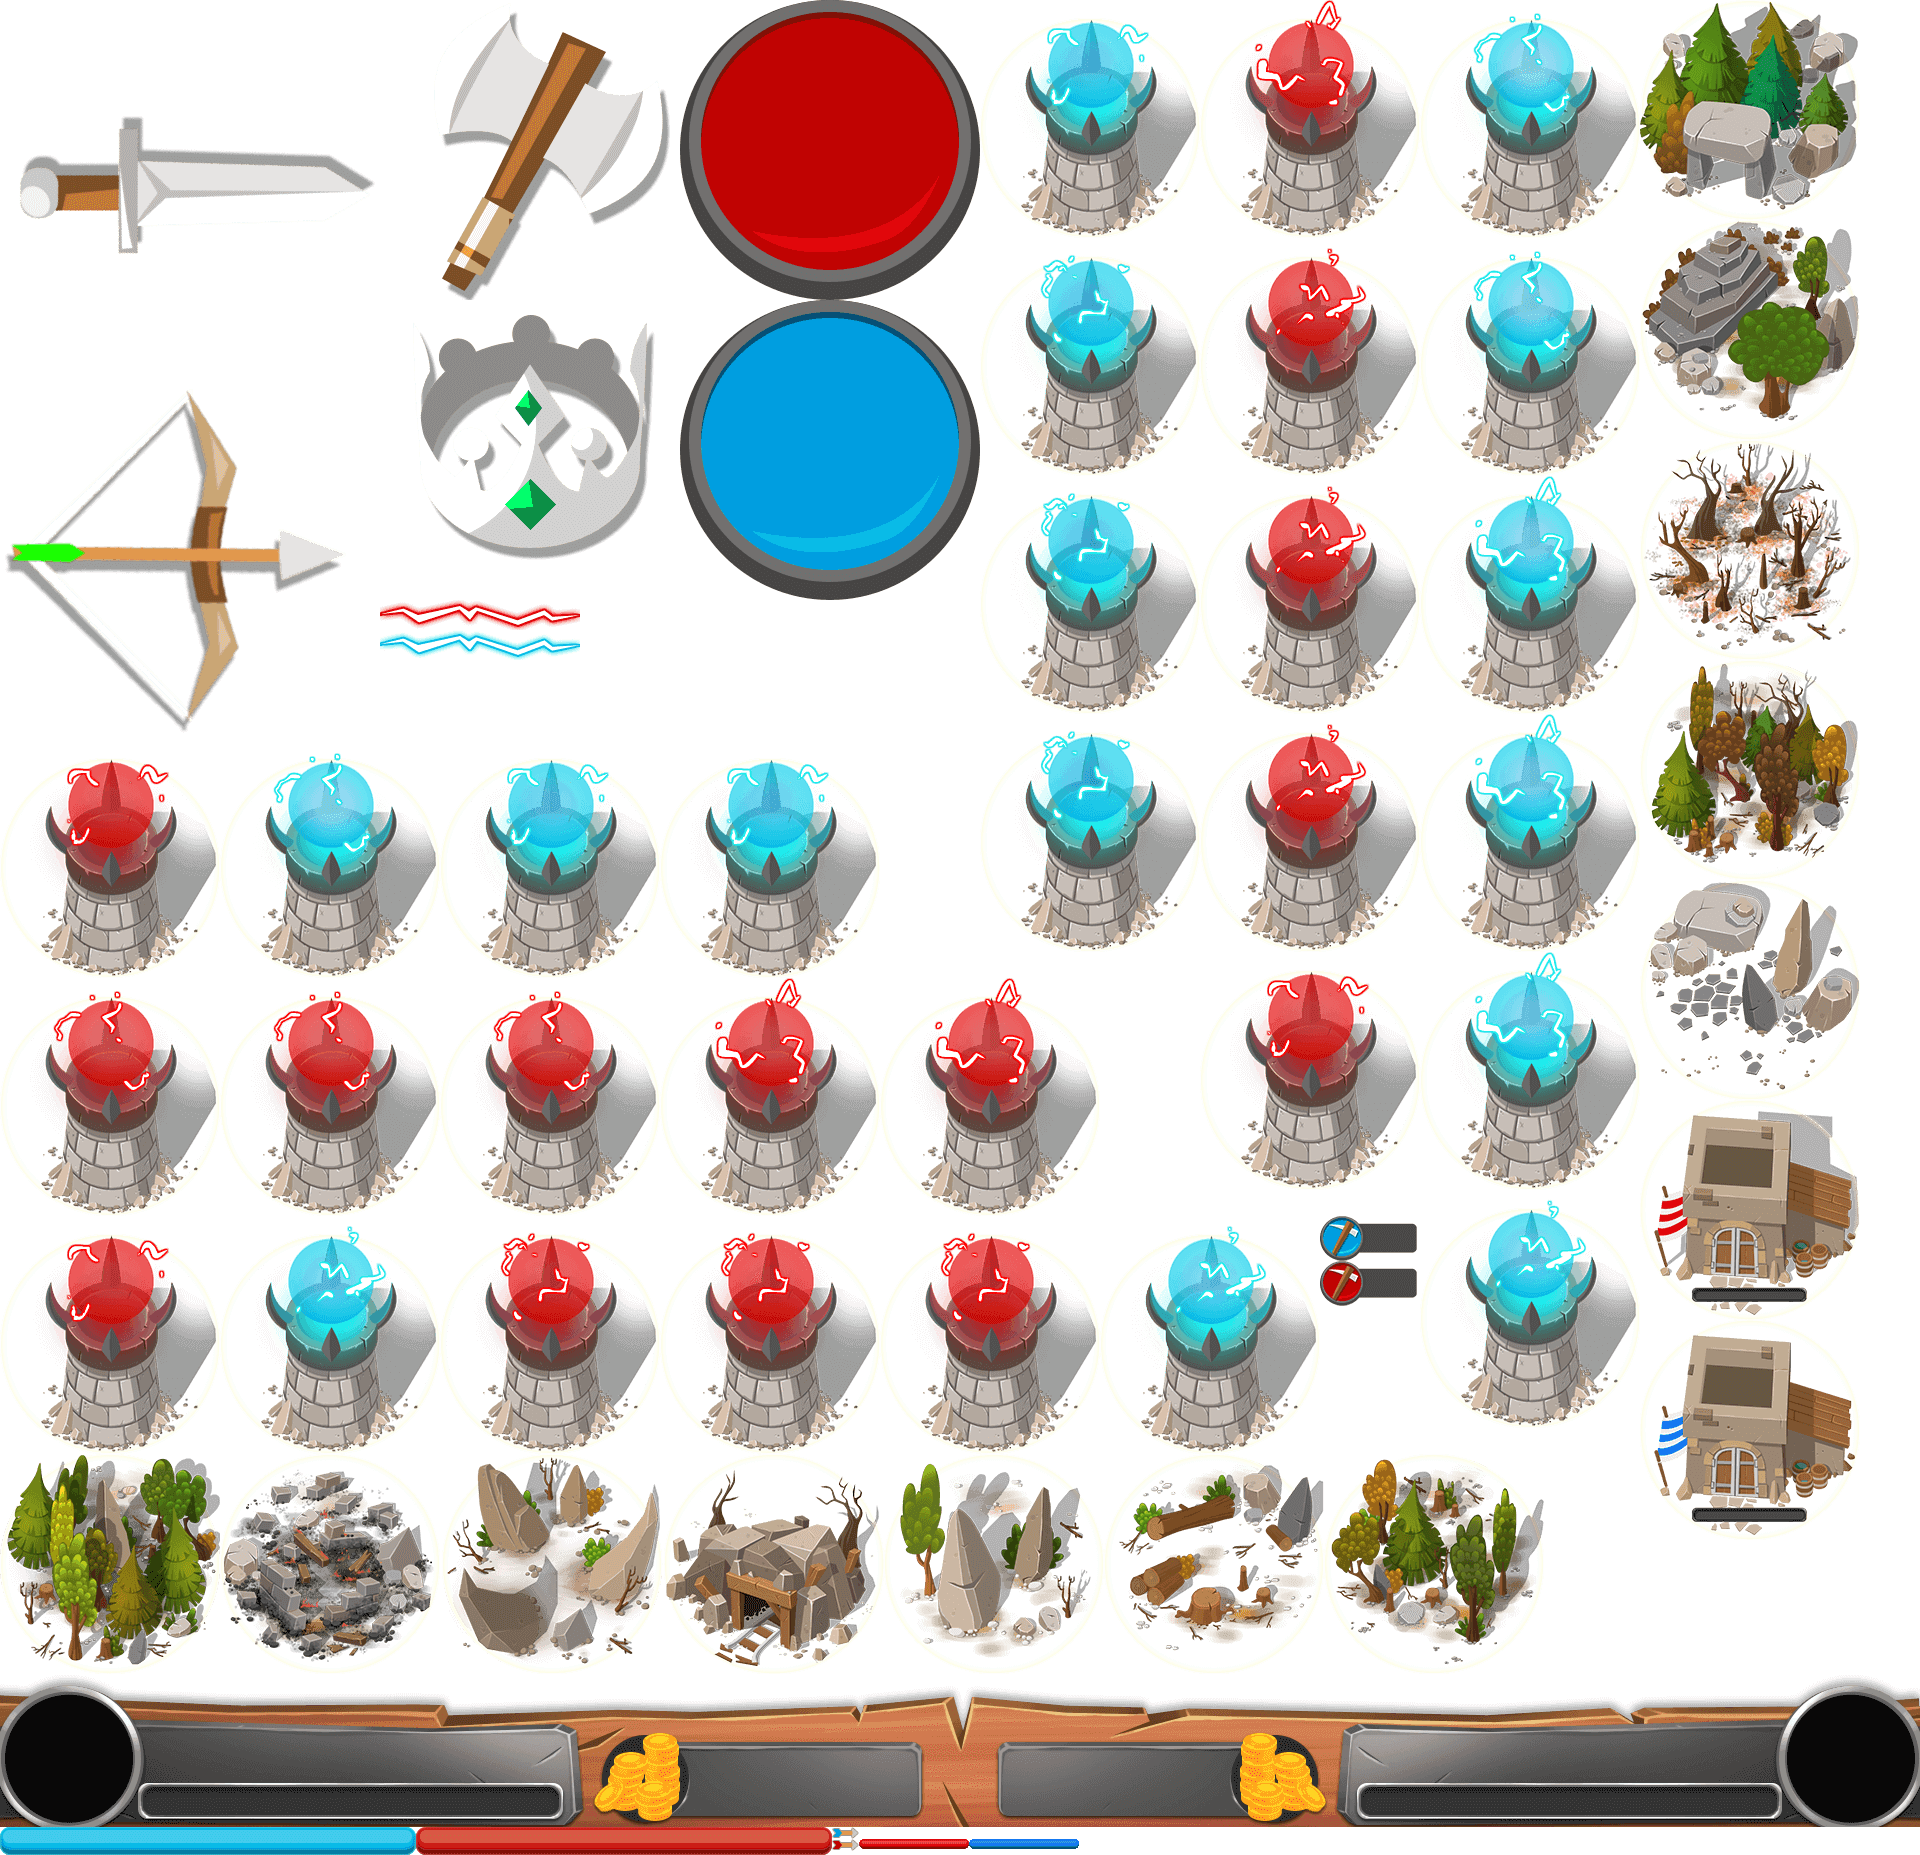
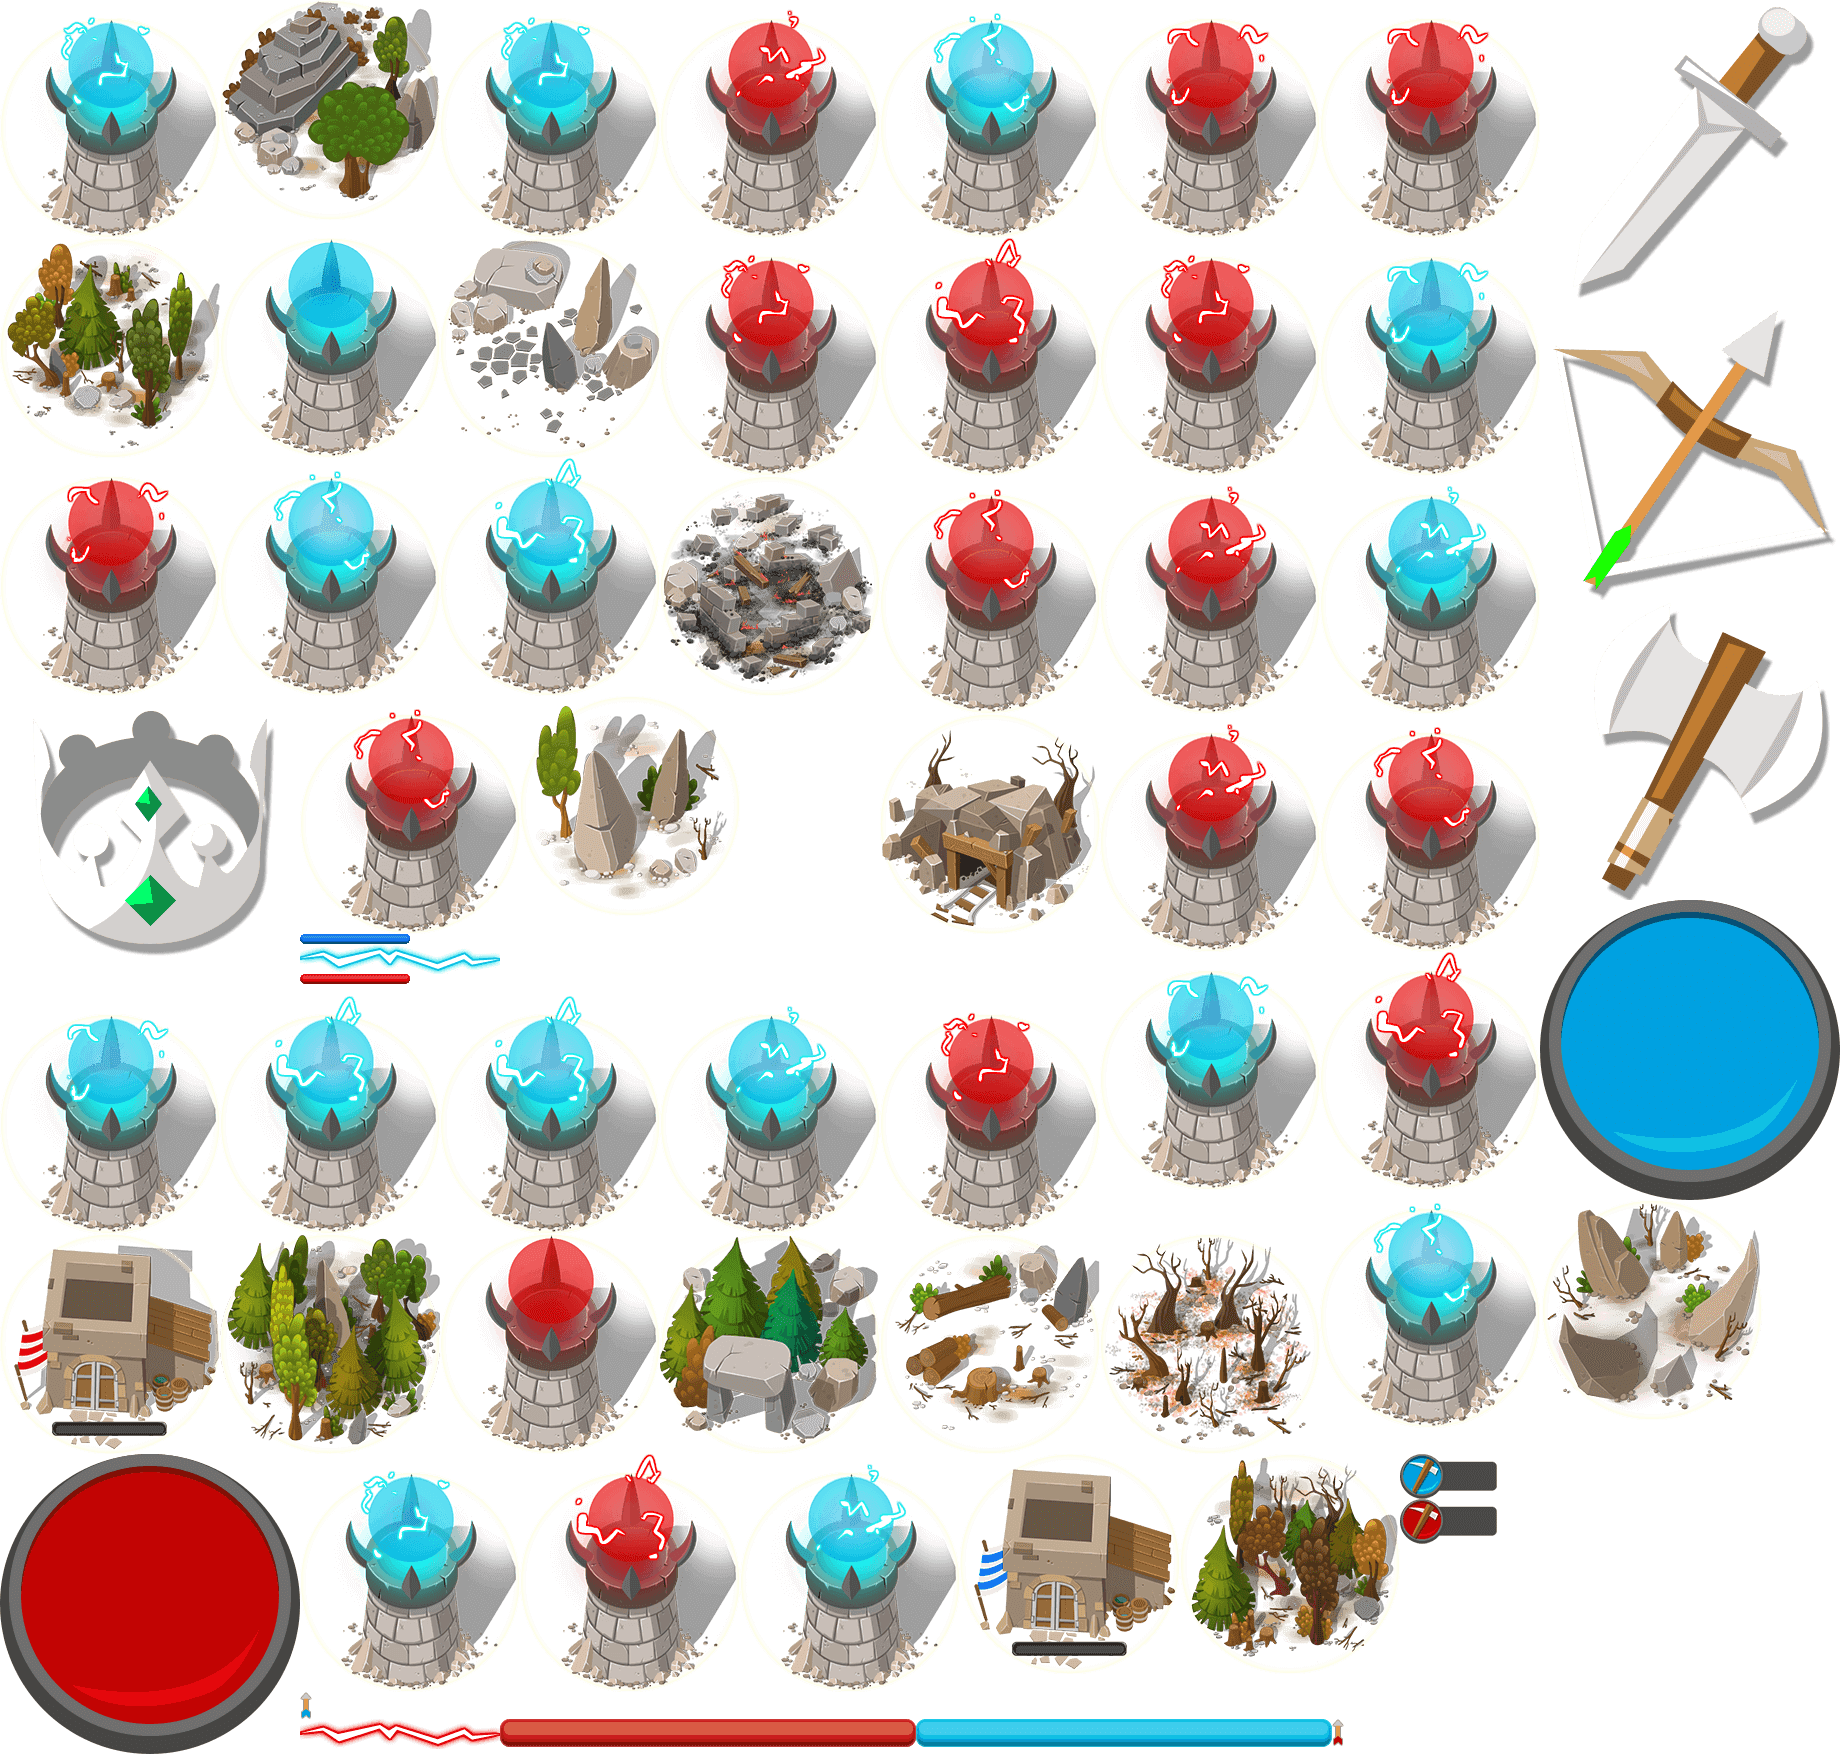
Extract hud from spritesheet and remove useless images

diff --git a/src/main/kotlin/com/codingame/game/MapBuilding.kt b/src/main/kotlin/com/codingame/game/MapBuilding.kt
@@ -10,7 +10,7 @@ val background = theEntityManager.createSprite()
   .setZIndex(0)
 
 val hudBackground = theEntityManager.createSprite()
-  .setImage("Hud")
+  .setImage("Hud.png")
   .setBaseWidth(1920)
   .setX(0).setY(1080)
   .setAnchorY(1.0)
